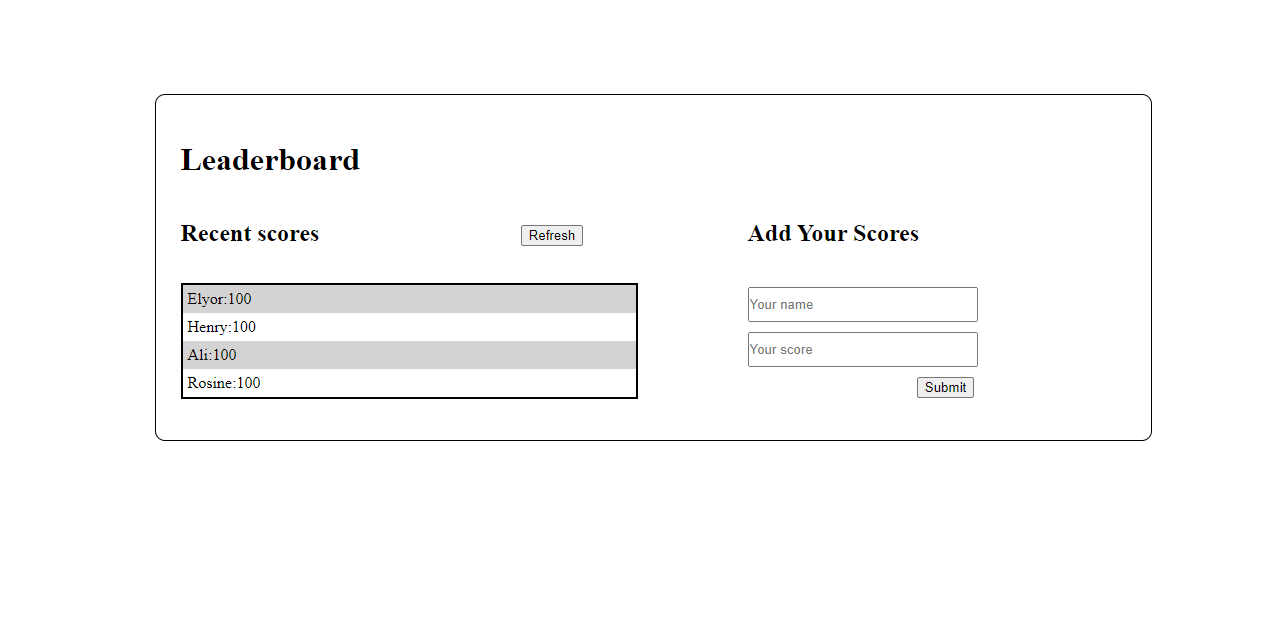
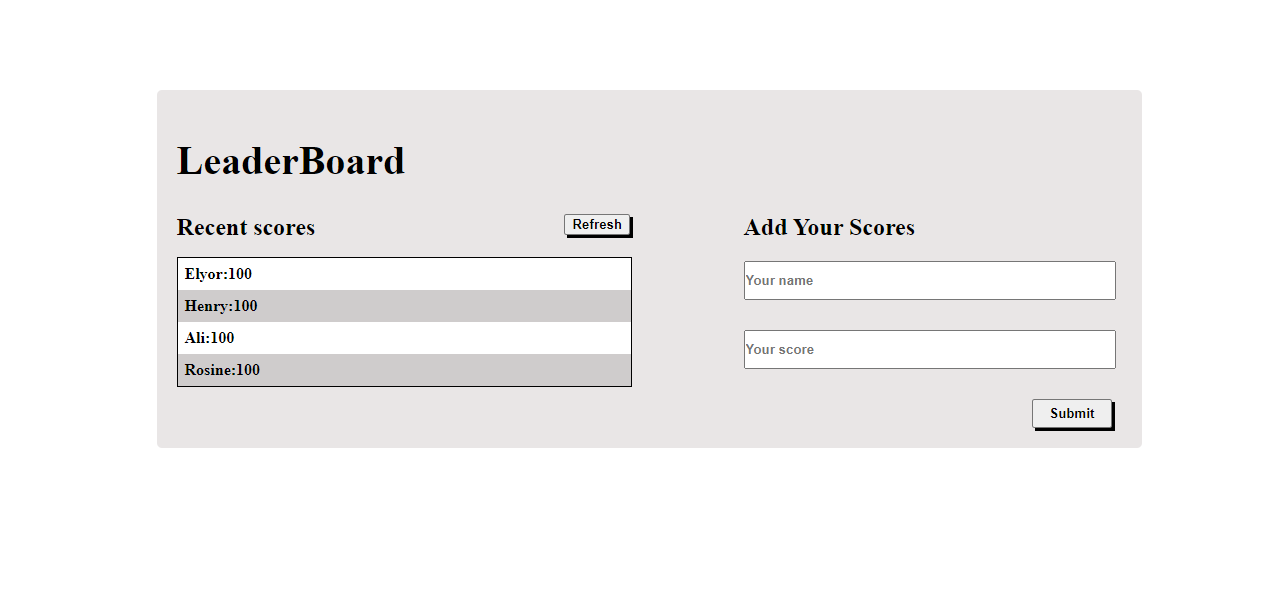
Add live link and screenshot

diff --git a/dist/main.js b/dist/main.js
@@ -16,7 +16,7 @@
   \*************************************************************/
 /***/ ((module, __webpack_exports__, __webpack_require__) => {
 
-eval("__webpack_require__.r(__webpack_exports__);\n/* harmony export */ __webpack_require__.d(__webpack_exports__, {\n/* harmony export */   \"default\": () => (__WEBPACK_DEFAULT_EXPORT__)\n/* harmony export */ });\n/* harmony import */ var _node_modules_css_loader_dist_runtime_api_js__WEBPACK_IMPORTED_MODULE_0__ = __webpack_require__(/*! ../node_modules/css-loader/dist/runtime/api.js */ \"./node_modules/css-loader/dist/runtime/api.js\");\n/* harmony import */ var _node_modules_css_loader_dist_runtime_api_js__WEBPACK_IMPORTED_MODULE_0___default = /*#__PURE__*/__webpack_require__.n(_node_modules_css_loader_dist_runtime_api_js__WEBPACK_IMPORTED_MODULE_0__);\n// Imports\n\nvar ___CSS_LOADER_EXPORT___ = _node_modules_css_loader_dist_runtime_api_js__WEBPACK_IMPORTED_MODULE_0___default()(function(i){return i[1]});\n// Module\n___CSS_LOADER_EXPORT___.push([module.id, \".container {\\r\\n  width: 70%;\\r\\n  margin: auto;\\r\\n  padding: 20px;\\r\\n  margin-top: 100px;\\r\\n  background-color: lightgray;\\r\\n}\\r\\n\\r\\nbutton, li , input, #addscorebtn {\\r\\n  font-weight: bolder;\\r\\n}\\r\\n\\r\\n.container > h1 {\\r\\n  margin-bottom: 30px;\\r\\n  font-size: 40px;\\r\\n}\\r\\n\\r\\n.leaderboard {\\r\\n  display: grid;\\r\\n  grid-template-columns: 60% 40%;\\r\\n}\\r\\n\\r\\n.refresh h2 {\\r\\n  display: inline;\\r\\n  margin-right: 10px;\\r\\n}\\r\\n\\r\\n.list-scores ul {\\r\\n  border: 1px solid black;\\r\\n  list-style-type: none;\\r\\n  width: 80%;\\r\\n  padding-left: 0;\\r\\n}\\r\\n\\r\\n.list-scores li:nth-child(odd) {\\r\\n  padding: 7px;\\r\\n  background-color: #fff;\\r\\n}\\r\\n\\r\\n.list-scores li:nth-child(even) {\\r\\n  padding: 7px;\\r\\n  background-color: rgb(207, 204, 204);\\r\\n}\\r\\n\\r\\n.add-score {\\r\\n  padding-right: 10px;\\r\\n}\\r\\n\\r\\n.add-score h2 {\\r\\n  margin-top: 0;\\r\\n}\\r\\n\\r\\n.form-add div {\\r\\n  margin-bottom: 30px;\\r\\n}\\r\\n\\r\\ninput[type=\\\"text\\\"] {\\r\\n  padding: 10px 0;\\r\\n  width: 100%;\\r\\n}\\r\\n\\r\\ninput[type=\\\"button\\\"] {\\r\\n  float: right;\\r\\n  padding: 5px 15px;\\r\\n}\\r\\n\\r\\n\\r\\n.errorDiv,\\r\\n.submitDivErr {\\r\\n  color: red;\\r\\n}\\r\\n\\r\\n#refreshbtn,\\r\\ninput[type=\\\"button\\\"] {\\r\\n  color: rgb(2, 2, 2);\\r\\n  margin-right: 20%;\\r\\n  float: right;\\r\\n  box-shadow: 3px 3px black;\\r\\n}\\r\\n\\r\\n#addscorebtn {\\r\\n  margin-right:0;\\r\\n}\\r\\n\\r\\n@media (max-width: 417px) {\\r\\n  .leaderboard {\\r\\n    display: flex;\\r\\n    flex-direction: column;\\r\\n  }\\r\\n\\r\\n  .list-scores ul {\\r\\n    width: 100%;\\r\\n  }\\r\\n}\\r\\n\", \"\"]);\n// Exports\n/* harmony default export */ const __WEBPACK_DEFAULT_EXPORT__ = (___CSS_LOADER_EXPORT___);\n\n\n//# sourceURL=webpack://leaderboard/./src/style.css?./node_modules/css-loader/dist/cjs.js");
+eval("__webpack_require__.r(__webpack_exports__);\n/* harmony export */ __webpack_require__.d(__webpack_exports__, {\n/* harmony export */   \"default\": () => (__WEBPACK_DEFAULT_EXPORT__)\n/* harmony export */ });\n/* harmony import */ var _node_modules_css_loader_dist_runtime_api_js__WEBPACK_IMPORTED_MODULE_0__ = __webpack_require__(/*! ../node_modules/css-loader/dist/runtime/api.js */ \"./node_modules/css-loader/dist/runtime/api.js\");\n/* harmony import */ var _node_modules_css_loader_dist_runtime_api_js__WEBPACK_IMPORTED_MODULE_0___default = /*#__PURE__*/__webpack_require__.n(_node_modules_css_loader_dist_runtime_api_js__WEBPACK_IMPORTED_MODULE_0__);\n// Imports\n\nvar ___CSS_LOADER_EXPORT___ = _node_modules_css_loader_dist_runtime_api_js__WEBPACK_IMPORTED_MODULE_0___default()(function(i){return i[1]});\n// Module\n___CSS_LOADER_EXPORT___.push([module.id, \".container {\\r\\n  width: 70%;\\r\\n  margin: auto;\\r\\n  padding: 20px;\\r\\n  margin-top: 100px;\\r\\n  background-color: rgb(233, 230, 230);\\r\\n  border-radius: 5px;\\r\\n}\\r\\n\\r\\nbutton, li , input, #addscorebtn {\\r\\n  font-weight: bolder;\\r\\n}\\r\\n\\r\\n.container > h1 {\\r\\n  margin-bottom: 30px;\\r\\n  font-size: 40px;\\r\\n}\\r\\n\\r\\n.leaderboard {\\r\\n  display: grid;\\r\\n  grid-template-columns: 60% 40%;\\r\\n}\\r\\n\\r\\n.refresh h2 {\\r\\n  display: inline;\\r\\n  margin-right: 10px;\\r\\n}\\r\\n\\r\\n.list-scores ul {\\r\\n  border: 1px solid black;\\r\\n  list-style-type: none;\\r\\n  width: 80%;\\r\\n  padding-left: 0;\\r\\n}\\r\\n\\r\\n.list-scores li:nth-child(odd) {\\r\\n  padding: 7px;\\r\\n  background-color: #fff;\\r\\n}\\r\\n\\r\\n.list-scores li:nth-child(even) {\\r\\n  padding: 7px;\\r\\n  background-color: rgb(207, 204, 204);\\r\\n}\\r\\n\\r\\n.add-score {\\r\\n  padding-right: 10px;\\r\\n}\\r\\n\\r\\n.add-score h2 {\\r\\n  margin-top: 0;\\r\\n}\\r\\n\\r\\n.form-add div {\\r\\n  margin-bottom: 30px;\\r\\n}\\r\\n\\r\\ninput[type=\\\"text\\\"] {\\r\\n  padding: 10px 0;\\r\\n  width: 100%;\\r\\n}\\r\\n\\r\\ninput[type=\\\"button\\\"] {\\r\\n  float: right;\\r\\n  padding: 5px 15px;\\r\\n}\\r\\n\\r\\n\\r\\n.errorDiv,\\r\\n.submitDivErr {\\r\\n  color: red;\\r\\n}\\r\\n\\r\\n#refreshbtn,\\r\\ninput[type=\\\"button\\\"] {\\r\\n  color: rgb(2, 2, 2);\\r\\n  margin-right: 20%;\\r\\n  float: right;\\r\\n  box-shadow: 3px 3px black;\\r\\n}\\r\\n\\r\\n#addscorebtn {\\r\\n  margin-right:0;\\r\\n}\\r\\n\\r\\n@media (max-width: 417px) {\\r\\n  .leaderboard {\\r\\n    display: flex;\\r\\n    flex-direction: column;\\r\\n  }\\r\\n\\r\\n  .list-scores ul {\\r\\n    width: 100%;\\r\\n  }\\r\\n}\\r\\n\", \"\"]);\n// Exports\n/* harmony default export */ const __WEBPACK_DEFAULT_EXPORT__ = (___CSS_LOADER_EXPORT___);\n\n\n//# sourceURL=webpack://leaderboard/./src/style.css?./node_modules/css-loader/dist/cjs.js");
 
 /***/ }),
 
@@ -106,7 +106,7 @@ eval("\n\n/* istanbul ignore next  */\nfunction styleTagTransform(css, style) {\
   \**********************/
 /***/ ((__unused_webpack_module, __webpack_exports__, __webpack_require__) => {
 
-eval("__webpack_require__.r(__webpack_exports__);\n/* harmony export */ __webpack_require__.d(__webpack_exports__, {\n/* harmony export */   \"default\": () => (/* binding */ Board)\n/* harmony export */ });\nclass Board {\r\n  constructor() {\r\n    this.id = null;\r\n    this.flag = true;\r\n  }\r\n  async setId(id) {\r\n    let tokenId = id.result.substring(id.result.indexOf(':'));\r\n    tokenId = tokenId.substring(\r\n      tokenId.lastIndexOf(':') + 1,\r\n      tokenId.lastIndexOf(' ')\r\n    );\r\n    this.id = tokenId;\r\n  }\r\n\r\n  getId() {\r\n    return this.id;\r\n  }\r\n\r\n  createGame = async (name) => {\r\n    const gameName = { name };\r\n    const url =\r\n      'https://us-central1-js-capstone-backend.cloudfunctions.net/api/games/';\r\n    const response = await this.fetchApi(url, 'POST', gameName);\r\n    if (this.flag === false) {\r\n      document.getElementById('errorDiv').textContent =\r\n        'Bad Request, Please Try Again!!!';\r\n      setTimeout(() => {\r\n        document.getElementById('errorDiv').innerHTML = '';\r\n      }, 3000);\r\n    } else {\r\n      this.setId(response);\r\n    }\r\n  };\r\n  displayScores = async () => {\r\n    if (this.id !== null) {\r\n      const scoresList = document.getElementById('ulList');\r\n      while (scoresList.firstChild) {\r\n        scoresList.removeChild(scoresList.firstChild);\r\n      }\r\n      const url = `https://us-central1-js-capstone-backend.cloudfunctions.net/api/games/${encodeURIComponent(\r\n        this.id\r\n      )}/scores/`;\r\n      const response = await this.fetchApi(url, 'GET');\r\n      response.result.forEach((element) => {\r\n        const item = document.createElement('li');\r\n        item.className = 'scoresList-items';\r\n        item.id = 'scoresList-items';\r\n        item.textContent = `${element.user}:${element.score}`;\r\n        scoresList.appendChild(item);\r\n      });\r\n    }\r\n  };\r\n\r\n  addScore = async () => {\r\n    const name = document.getElementById('name').value;\r\n    const score = document.getElementById('score').value;\r\n    if (name === '' || score === '') {\r\n      document.querySelector('.submitDivErr').textContent =\r\n        'Please provide a value for game name and score';\r\n      setTimeout(() => {\r\n        document.querySelector('.submitDivErr').innerHTML = '';\r\n      }, 1500);\r\n      return false;\r\n    }\r\n    if (this.id !== null) {\r\n      const url = `https://us-central1-js-capstone-backend.cloudfunctions.net/api/games/${encodeURIComponent(\r\n        this.id\r\n      )}/scores/`;\r\n      const newScore = {\r\n        user: document.getElementById('name').value,\r\n        score: document.getElementById('score').value,\r\n      };\r\n      const response = await this.fetchApi(url, 'POST', newScore);\r\n      if (response.result === 'Leaderboard score created correctly.') {\r\n        const scoresList = document.getElementById('ulList');\r\n        const item = document.createElement('li');\r\n        item.className = 'scoresList-items';\r\n        item.id = 'scoresList-items';\r\n        item.textContent = `${newScore.user}:${newScore.score}`;\r\n        scoresList.appendChild(item);\r\n      }\r\n    }\r\n    return true;\r\n  };\r\n\r\n  fetchApi = async (url, method, jsonBody = null) => {\r\n    const response = await fetch(url, {\r\n      headers: {\r\n        'Content-Type': 'application/json',\r\n        'Access-Control-Allow-Headers': 'Content-Type',\r\n        'Access-Control-Allow-Origin': '*',\r\n        'Access-Control-Allow-Methods': 'POST,PATCH,OPTIONS,GET',\r\n      },\r\n      method,\r\n      body: jsonBody !== null ? JSON.stringify(jsonBody) : String.empty,\r\n    })\r\n      .then((res) => res.json().then((data) => data))\r\n      .catch(() => {\r\n        this.flag = false;\r\n      });\r\n    return response;\r\n  };\r\n}\r\n\n\n//# sourceURL=webpack://leaderboard/./src/board.js?");
+eval("__webpack_require__.r(__webpack_exports__);\n/* harmony export */ __webpack_require__.d(__webpack_exports__, {\n/* harmony export */   \"default\": () => (/* binding */ Board)\n/* harmony export */ });\nclass Board {\r\n  constructor() {\r\n    this.id = null;\r\n    this.flag = true;\r\n  }\r\n\r\n  async setId(id) {\r\n    let tokenId = id.result.substring(id.result.indexOf(':'));\r\n    tokenId = tokenId.substring(\r\n      tokenId.lastIndexOf(':') + 1,\r\n      tokenId.lastIndexOf(' '),\r\n    );\r\n    this.id = tokenId;\r\n  }\r\n\r\n  getId() {\r\n    return this.id;\r\n  }\r\n\r\n  createGame = async (name) => {\r\n    const gameName = { name };\r\n    const url =\r\n      'https://us-central1-js-capstone-backend.cloudfunctions.net/api/games/';\r\n    const response = await this.fetchApi(url, 'POST', gameName);\r\n    if (this.flag === false) {\r\n      document.getElementById('errorDiv').textContent =\r\n        'Bad Request, Please Try Again!!!';\r\n      setTimeout(() => {\r\n        document.getElementById('errorDiv').innerHTML = '';\r\n      }, 3000);\r\n    } else {\r\n      this.setId(response);\r\n    }\r\n  };\r\n  \r\n  displayScores = async () => {\r\n    if (this.id !== null) {\r\n      const scoresList = document.getElementById('ulList');\r\n      while (scoresList.firstChild) {\r\n        scoresList.removeChild(scoresList.firstChild);\r\n      }\r\n      const url = `https://us-central1-js-capstone-backend.cloudfunctions.net/api/games/${encodeURIComponent(\r\n        this.id\r\n      )}/scores/`;\r\n      const response = await this.fetchApi(url, 'GET');\r\n      response.result.forEach((element) => {\r\n        const item = document.createElement('li');\r\n        item.className = 'scoresList-items';\r\n        item.id = 'scoresList-items';\r\n        item.textContent = `${element.user}:${element.score}`;\r\n        scoresList.appendChild(item);\r\n      });\r\n    }\r\n  };\r\n\r\n  addScore = async () => {\r\n    const name = document.getElementById('name').value;\r\n    const score = document.getElementById('score').value;\r\n    if (name === '' || score === '') {\r\n      document.querySelector('.submitDivErr').textContent =\r\n        'Please provide a value for game name and score';\r\n      setTimeout(() => {\r\n        document.querySelector('.submitDivErr').innerHTML = '';\r\n      }, 1500);\r\n      return false;\r\n    }\r\n    if (this.id !== null) {\r\n      const url = `https://us-central1-js-capstone-backend.cloudfunctions.net/api/games/${encodeURIComponent(\r\n        this.id\r\n      )}/scores/`;\r\n      const newScore = {\r\n        user: document.getElementById('name').value,\r\n        score: document.getElementById('score').value,\r\n      };\r\n      const response = await this.fetchApi(url, 'POST', newScore);\r\n      if (response.result === 'Leaderboard score created correctly.') {\r\n        const scoresList = document.getElementById('ulList');\r\n        const item = document.createElement('li');\r\n        item.className = 'scoresList-items';\r\n        item.id = 'scoresList-items';\r\n        item.textContent = `${newScore.user}:${newScore.score}`;\r\n        scoresList.appendChild(item);\r\n      }\r\n    }\r\n    return true;\r\n  };\r\n\r\n  fetchApi = async (url, method, jsonBody = null) => {\r\n    const response = await fetch(url, {\r\n      headers: {\r\n        'Content-Type': 'application/json',\r\n        'Access-Control-Allow-Headers': 'Content-Type',\r\n        'Access-Control-Allow-Origin': '*',\r\n        'Access-Control-Allow-Methods': 'POST,PATCH,OPTIONS,GET',\r\n      },\r\n      method,\r\n      body: jsonBody !== null ? JSON.stringify(jsonBody) : String.empty,\r\n    })\r\n      .then((res) => res.json().then((data) => data))\r\n      .catch(() => {\r\n        this.flag = false;\r\n      });\r\n    return response;\r\n  };\r\n}\r\n\n\n//# sourceURL=webpack://leaderboard/./src/board.js?");
 
 /***/ }),
 
@@ -116,7 +116,7 @@ eval("__webpack_require__.r(__webpack_exports__);\n/* harmony export */ __webpac
   \**********************/
 /***/ ((__unused_webpack_module, __webpack_exports__, __webpack_require__) => {
 
-eval("__webpack_require__.r(__webpack_exports__);\n/* harmony import */ var _style_css__WEBPACK_IMPORTED_MODULE_0__ = __webpack_require__(/*! ./style.css */ \"./src/style.css\");\n/* harmony import */ var _board_js__WEBPACK_IMPORTED_MODULE_1__ = __webpack_require__(/*! ./board.js */ \"./src/board.js\");\n/* harmony import */ var _leaderBoard_js__WEBPACK_IMPORTED_MODULE_2__ = __webpack_require__(/*! ./leaderBoard.js */ \"./src/leaderBoard.js\");\n\r\n\r\n\r\n\r\nconst board = (0,_leaderBoard_js__WEBPACK_IMPORTED_MODULE_2__.default)();\r\nconst root = document.getElementById('root');\r\nroot.appendChild(board);\r\n\r\nconst game = new LeaderBoard();\r\n\r\nasync function startGame() {\r\n  await game.createGame('my cool game');\r\n}\r\nstartGame();\r\n\r\ndocument.getElementById('refreshbtn').addEventListener('click', () => {\r\n  game.displayScores();\r\n}, false);\r\n\r\ndocument.getElementById('addscorebtn').addEventListener('click', () => {\r\n  game.addScore();\r\n}, false);\r\n\n\n//# sourceURL=webpack://leaderboard/./src/index.js?");
+eval("__webpack_require__.r(__webpack_exports__);\n/* harmony import */ var _style_css__WEBPACK_IMPORTED_MODULE_0__ = __webpack_require__(/*! ./style.css */ \"./src/style.css\");\n/* harmony import */ var _board_js__WEBPACK_IMPORTED_MODULE_1__ = __webpack_require__(/*! ./board.js */ \"./src/board.js\");\n/* harmony import */ var _leaderBoard_js__WEBPACK_IMPORTED_MODULE_2__ = __webpack_require__(/*! ./leaderBoard.js */ \"./src/leaderBoard.js\");\n\r\n\r\n\r\n\r\nconst board = (0,_leaderBoard_js__WEBPACK_IMPORTED_MODULE_2__.default)();\r\nconst root = document.getElementById('root');\r\nroot.appendChild(board);\r\n\r\nconst game = new _board_js__WEBPACK_IMPORTED_MODULE_1__.default();\r\n\r\nasync function startGame() {\r\n  await game.createGame('my cool game');\r\n}\r\nstartGame();\r\n\r\ndocument.getElementById('refreshbtn').addEventListener('click', () => {\r\n  game.displayScores();\r\n}, false);\r\n\r\ndocument.getElementById('addscorebtn').addEventListener('click', () => {\r\n  game.addScore();\r\n}, false);\r\n\n\n//# sourceURL=webpack://leaderboard/./src/index.js?");
 
 /***/ }),
 
@@ -126,7 +126,7 @@ eval("__webpack_require__.r(__webpack_exports__);\n/* harmony import */ var _sty
   \****************************/
 /***/ ((__unused_webpack_module, __webpack_exports__, __webpack_require__) => {
 
-eval("__webpack_require__.r(__webpack_exports__);\n/* harmony export */ __webpack_require__.d(__webpack_exports__, {\n/* harmony export */   \"default\": () => (__WEBPACK_DEFAULT_EXPORT__)\n/* harmony export */ });\nconst leaderBoard = () => {\r\n  const scoresArray = [\r\n    { name: 'Elyor', score: 100 },\r\n    { name: 'Henry', score: 100 },\r\n    { name: 'Ali', score: 100 },\r\n    { name: 'Rosine', score: 100 },\r\n  ];\r\n  const errorDiv = document.createElement('div');\r\n  errorDiv.id = 'errorDiv';\r\n  errorDiv.className = 'errorDiv';\r\n  const container = document.createElement('div');\r\n  container.className = 'container';\r\n  const leaderBoardHeader = document.createElement('h1');\r\n  leaderBoardHeader.textContent = 'LeaderBoard';\r\n  container.appendChild(errorDiv);\r\n  container.appendChild(leaderBoardHeader);\r\n  const leaderboard = document.createElement('div');\r\n  leaderboard.className = 'leaderboard';\r\n  const scores = document.createElement('div');\r\n  scores.className = 'scores';\r\n  const refresh = document.createElement('div');\r\n  refresh.className = 'refresh';\r\n  const recentScores = document.createElement('h2');\r\n  recentScores.textContent = 'Recent scores';\r\n  const refreshBtn = document.createElement('button');\r\n  refreshBtn.id = 'refreshbtn';\r\n  refreshBtn.textContent = 'Refresh';\r\n  refresh.appendChild(recentScores);\r\n  refresh.appendChild(refreshBtn);\r\n  scores.appendChild(refresh);\r\n  const listScores = document.createElement('div');\r\n  listScores.className = 'list-scores';\r\n  const ulList = document.createElement('ul');\r\n  ulList.id = 'ulList';\r\n  scoresArray.forEach((element) => {\r\n    const items = document.createElement('li');\r\n    items.id = 'scoresList-items';\r\n    items.className = 'scoresList-items';\r\n    items.textContent = `${`${element.name}:${element.score}`}`;\r\n    ulList.appendChild(items);\r\n  });\r\n  listScores.appendChild(ulList);\r\n  scores.appendChild(listScores);\r\n  leaderboard.appendChild(scores);\r\n  const addScore = document.createElement('div');\r\n  addScore.className = 'add-score';\r\n  const addScoreHeader = document.createElement('h2');\r\n  addScoreHeader.textContent = 'Add Your Scores';\r\n  const formAddDiv = document.createElement('div');\r\n  formAddDiv.className = 'form-add';\r\n  const formAdd = document.createElement('form');\r\n  const playerNameDiv = document.createElement('div');\r\n  const playerName = document.createElement('input');\r\n  playerName.type = 'text';\r\n  playerName.id = 'name';\r\n  playerName.placeholder = 'Your name';\r\n  playerNameDiv.appendChild(playerName);\r\n  const playerScoreDiv = document.createElement('div');\r\n  const playerScore = document.createElement('input');\r\n  playerScore.type = 'text';\r\n  playerScore.id = 'score';\r\n  playerScore.placeholder = 'Your score';\r\n  playerScoreDiv.appendChild(playerScore);\r\n  const submitBtnDiv = document.createElement('div');\r\n  const submitBtn = document.createElement('input');\r\n  submitBtn.type = 'button';\r\n  submitBtn.id = 'addscorebtn';\r\n  submitBtn.value = 'Submit';\r\n  const submitDivErr = document.createElement('div');\r\n  submitDivErr.className = 'submitDivErr';\r\n  submitBtnDiv.appendChild(submitBtn);\r\n  formAdd.appendChild(playerNameDiv);\r\n  formAdd.appendChild(playerScoreDiv);\r\n  formAdd.appendChild(submitDivErr);\r\n  formAddDiv.appendChild(formAdd);\r\n  formAddDiv.appendChild(submitBtnDiv);\r\n  addScore.appendChild(addScoreHeader);\r\n  addScore.appendChild(formAddDiv);\r\n  leaderboard.appendChild(scores);\r\n  leaderboard.appendChild(addScore);\r\n  container.appendChild(leaderboard);\r\n  return container;\r\n}\r\n\r\n/* harmony default export */ const __WEBPACK_DEFAULT_EXPORT__ = (leaderBoard);\n\n//# sourceURL=webpack://leaderboard/./src/leaderBoard.js?");
+eval("__webpack_require__.r(__webpack_exports__);\n/* harmony export */ __webpack_require__.d(__webpack_exports__, {\n/* harmony export */   \"default\": () => (__WEBPACK_DEFAULT_EXPORT__)\n/* harmony export */ });\nconst leaderBoard = () => {\r\n  const scoresArray = [\r\n    { name: 'Elyor', score: 100 },\r\n    { name: 'Henry', score: 100 },\r\n    { name: 'Ali', score: 100 },\r\n    { name: 'Rosine', score: 100 },\r\n  ];\r\n  const errorDiv = document.createElement('div');\r\n  errorDiv.id = 'errorDiv';\r\n  errorDiv.className = 'errorDiv';\r\n  const container = document.createElement('div');\r\n  container.className = 'container';\r\n  const leaderBoardHeader = document.createElement('h1');\r\n  leaderBoardHeader.textContent = 'LeaderBoard';\r\n  container.appendChild(errorDiv);\r\n  container.appendChild(leaderBoardHeader);\r\n  const leaderboard = document.createElement('div');\r\n  leaderboard.className = 'leaderboard';\r\n  const scores = document.createElement('div');\r\n  scores.className = 'scores';\r\n  const refresh = document.createElement('div');\r\n  refresh.className = 'refresh';\r\n  const recentScores = document.createElement('h2');\r\n  recentScores.textContent = 'Recent scores';\r\n  const refreshBtn = document.createElement('button');\r\n  refreshBtn.id = 'refreshbtn';\r\n  refreshBtn.textContent = 'Refresh';\r\n  refresh.appendChild(recentScores);\r\n  refresh.appendChild(refreshBtn);\r\n  scores.appendChild(refresh);\r\n  const listScores = document.createElement('div');\r\n  listScores.className = 'list-scores';\r\n  const ulList = document.createElement('ul');\r\n  ulList.id = 'ulList';\r\n  scoresArray.forEach((element) => {\r\n    const items = document.createElement('li');\r\n    items.id = 'scoresList-items';\r\n    items.className = 'scoresList-items';\r\n    items.textContent = `${`${element.name}:${element.score}`}`;\r\n    ulList.appendChild(items);\r\n  });\r\n  listScores.appendChild(ulList);\r\n  scores.appendChild(listScores);\r\n  leaderboard.appendChild(scores);\r\n  const addScore = document.createElement('div');\r\n  addScore.className = 'add-score';\r\n  const addScoreHeader = document.createElement('h2');\r\n  addScoreHeader.textContent = 'Add Your Scores';\r\n  const formAddDiv = document.createElement('div');\r\n  formAddDiv.className = 'form-add';\r\n  const formAdd = document.createElement('form');\r\n  const playerNameDiv = document.createElement('div');\r\n  const playerName = document.createElement('input');\r\n  playerName.type = 'text';\r\n  playerName.id = 'name';\r\n  playerName.placeholder = 'Your name';\r\n  playerNameDiv.appendChild(playerName);\r\n  const playerScoreDiv = document.createElement('div');\r\n  const playerScore = document.createElement('input');\r\n  playerScore.type = 'text';\r\n  playerScore.id = 'score';\r\n  playerScore.placeholder = 'Your score';\r\n  playerScoreDiv.appendChild(playerScore);\r\n  const submitBtnDiv = document.createElement('div');\r\n  const submitBtn = document.createElement('input');\r\n  submitBtn.type = 'button';\r\n  submitBtn.id = 'addscorebtn';\r\n  submitBtn.value = 'Submit';\r\n  const submitDivErr = document.createElement('div');\r\n  submitDivErr.className = 'submitDivErr';\r\n  submitBtnDiv.appendChild(submitBtn);\r\n  formAdd.appendChild(playerNameDiv);\r\n  formAdd.appendChild(playerScoreDiv);\r\n  formAdd.appendChild(submitDivErr);\r\n  formAddDiv.appendChild(formAdd);\r\n  formAddDiv.appendChild(submitBtnDiv);\r\n  addScore.appendChild(addScoreHeader);\r\n  addScore.appendChild(formAddDiv);\r\n  leaderboard.appendChild(scores);\r\n  leaderboard.appendChild(addScore);\r\n  container.appendChild(leaderboard);\r\n  return container;\r\n};\r\n\r\n/* harmony default export */ const __WEBPACK_DEFAULT_EXPORT__ = (leaderBoard);\n\n//# sourceURL=webpack://leaderboard/./src/leaderBoard.js?");
 
 /***/ })
 

diff --git a/src/style.css b/src/style.css
@@ -3,7 +3,8 @@
   margin: auto;
   padding: 20px;
   margin-top: 100px;
-  background-color: lightgray;
+  background-color: rgb(233, 230, 230);
+  border-radius: 5px;
 }
 
 button, li , input, #addscorebtn {

diff --git a/README.md b/README.md
@@ -16,7 +16,7 @@ Additional description of the project and its features.
 
 ## Live Demo
 
-[live demo](will be soon)
+[live demo](https://rawcdn.githack.com/elyor-doniyorov/leaderboard/6c264ecadc9545dfa5bf3d97ea17b2e417218f44/dist/index.html)
 
 ### Setup
 
